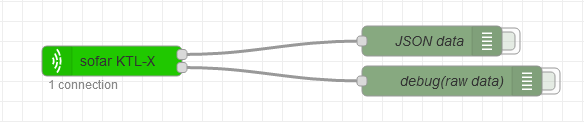
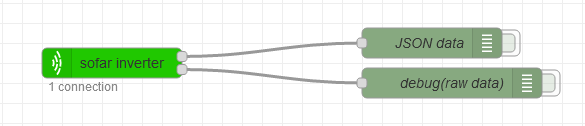
multi inverter support readme update

diff --git a/README.md b/README.md
@@ -1,61 +1,61 @@
-# Node-red server/proxy for Sofar solar wifi stick
+# Node-red server/proxy for Sofar inverters
+- subflow captures messages from wifi logger and decode them into JSON message
+- proxy data to default (solarmanpv.com (ginlong.com)) server
+- uses v5 data frames
 
-- flow captures messages from wifi stick and decode them into JSON message
-- can act as a proxy to solarmanpv.com (ginlong.com) server
-- uses v5 protocol
+## Tested on:
 
-## wifi stick:
+- LSW-3 data logger (`SN: 17xxxxxxxx` `firmware: LSW3_14_FFFF_1.0.34`) and **Sofar 4.4KTL-X**  
+- **Sofar ME3000SP (RETROFIT ZST-3000SP)** added by [mattiarossi](https://github.com/mattiarossi)  
+- **Sofar HYD6000-ES** added by [daniel-pro](https://github.com/daniel-pro)  
 
-    SN: 174xxxxxxx
-    firmware: LSW3_14_FFFF_1.0.34
+## wifi logger settings
 
-## wifi stick settings
-
-go to `http://\<wifi stick local IP\>`  
+go to `http://\<wifi logger local IP\>`  
 in advanced tab set server B to `<node-red IP>` on port `10000` `TCP`  
-![advanced settings](images/wifi-stick-advanced-settings.png)  
+![advanced settings](images/wifi-logger-advanced-settings.png)  
 
 ## node-red settings
 
-import [node-red-subflow](node-red-subflow.json) to node-red, u will get sofar KTL-X node in subflow category  
+import [node-red-subflow](node-red-subflow.json) to node-red, u will get sofar inverter node in subflow category  
 ![subflow example](images/subflow-node-example.png)  
-now your `sofar KTL-X` node should have 1 connection and receive data  
+now your `sofar inverter` node should have 1 connection and receive data  
 
-sofar KTL-X default properties  
+`sofar inverter` default properties  
 ![subflow properties](images/subflow-properties.png)  
 by default node will listen on TCP port 10000, and will resend data to default solarmanpv.com server as well  
 
 ## node-red did not connect
 
-if `sofar KTL-X` node do not have active connection  
-go to `http://\<wifi stick local IP\>/config_hide.html`  
+if `sofar inverter` node do not have active connection  
+go to `http://\<wifi logger local IP\>/config_hide.html`  
 and change server A (default server) to `<node-red IP>`  
-![advanced settings](images/wifi-stick-hidden-menu.png)  
+![advanced settings](images/wifi-logger-hidden-menu.png)  
 
 ---
 ## messages flow
 
 ### after power on:
 
-wifi stick ([hello msg](messages/decode_hello-msg.md)) -> server ([srv-response msg](messages/decode_srv-response.md)) -> wifi stick  
-wifi stick ([KTL-X data msg](messages/decode_data.md) or [ME3000SP data msg](messages/decode_data_me3000sp.md) or [HYD6000ES data msg](messages/decode_data_HYD6000ES.md)) -> server ([srv-response msg](messages/decode_srv-response.md)) -> wifi stick  
-wifi stick ([hello cd msg](messages/decode_hello_cd-msg.md)) -> server ([srv-response msg](messages/decode_srv-response.md)) -> wifi stick  
-wifi stick ([hello end msg](messages/decode_hello_end-msg.md)) -> server ([srv-response msg](messages/decode_srv-response.md)) -> wifi stick  
+wifi logger ([hello msg](messages/decode_hello-msg.md)) -> server ([srv-response msg](messages/decode_srv-response.md)) -> wifi logger  
+wifi logger ([KTL-X](messages/decode_data_KTL-X.md)/[ME3000SP](messages/decode_data_me3000sp.md)/[HYD6000ES](messages/decode_data_HYD6000ES.md) data msg) -> server ([srv-response msg](messages/decode_srv-response.md)) -> wifi logger  
+wifi logger ([hello cd msg](messages/decode_hello_cd-msg.md)) -> server ([srv-response msg](messages/decode_srv-response.md)) -> wifi logger  
+wifi logger ([hello end msg](messages/decode_hello_end-msg.md)) -> server ([srv-response msg](messages/decode_srv-response.md)) -> wifi logger  
 
 ### 120s interval:
 
-wifi stick ([heartbeat msg](messages/decode_heartbeat.md)) -> server ([srv-response msg](messages/decode_srv-response.md)) -> wifi stick
+wifi logger ([heartbeat msg](messages/decode_heartbeat.md)) -> server ([srv-response msg](messages/decode_srv-response.md)) -> wifi logger
 
 ### 5min interval:
 
-wifi stick ([data msg](messages/decode_data.md)) -> server ([srv-response msg](messages/decode_srv-response.md)) -> wifi stick
+wifi logger ([KTL-X](messages/decode_data_KTL-X.md)/[ME3000SP](messages/decode_data_me3000sp.md)/[HYD6000ES](messages/decode_data_HYD6000ES.md) data msg) -> server ([srv-response msg](messages/decode_srv-response.md)) -> wifi logger  
 
 ### ~3h interval:
 
-wifi stick ([hello msg](messages/decode_hello-msg.md)) -> server ([srv-response msg](messages/decode_srv-response.md)) -> wifi stick  
-wifi stick ([KTL-X data msg](messages/decode_data.md) or [ME3000SP data msg](messages/decode_data_me3000sp.md)) -> server ([srv-response msg](messages/decode_srv-response.md)) -> wifi stick  
-wifi stick ([hello cd msg](messages/decode_hello_cd-msg.md)) -> server ([srv-response msg](messages/decode_srv-response.md)) -> wifi stick  
-wifi stick ([hello end msg](messages/decode_hello_end-msg.md)) ->server ([srv-response msg](messages/decode_srv-response.md)) -> wifi stick
+wifi logger ([hello msg](messages/decode_hello-msg.md)) -> server ([srv-response msg](messages/decode_srv-response.md)) -> wifi logger  
+wifi logger ([KTL-X](messages/decode_data_KTL-X.md)/[ME3000SP](messages/decode_data_me3000sp.md)/[HYD6000ES](messages/decode_data_HYD6000ES.md) data msg) -> server ([srv-response msg](messages/decode_srv-response.md)) -> wifi logger  
+wifi logger ([hello cd msg](messages/decode_hello_cd-msg.md)) -> server ([srv-response msg](messages/decode_srv-response.md)) -> wifi logger  
+wifi logger ([hello end msg](messages/decode_hello_end-msg.md)) ->server ([srv-response msg](messages/decode_srv-response.md)) -> wifi logger
 
 ### other messages:
 
